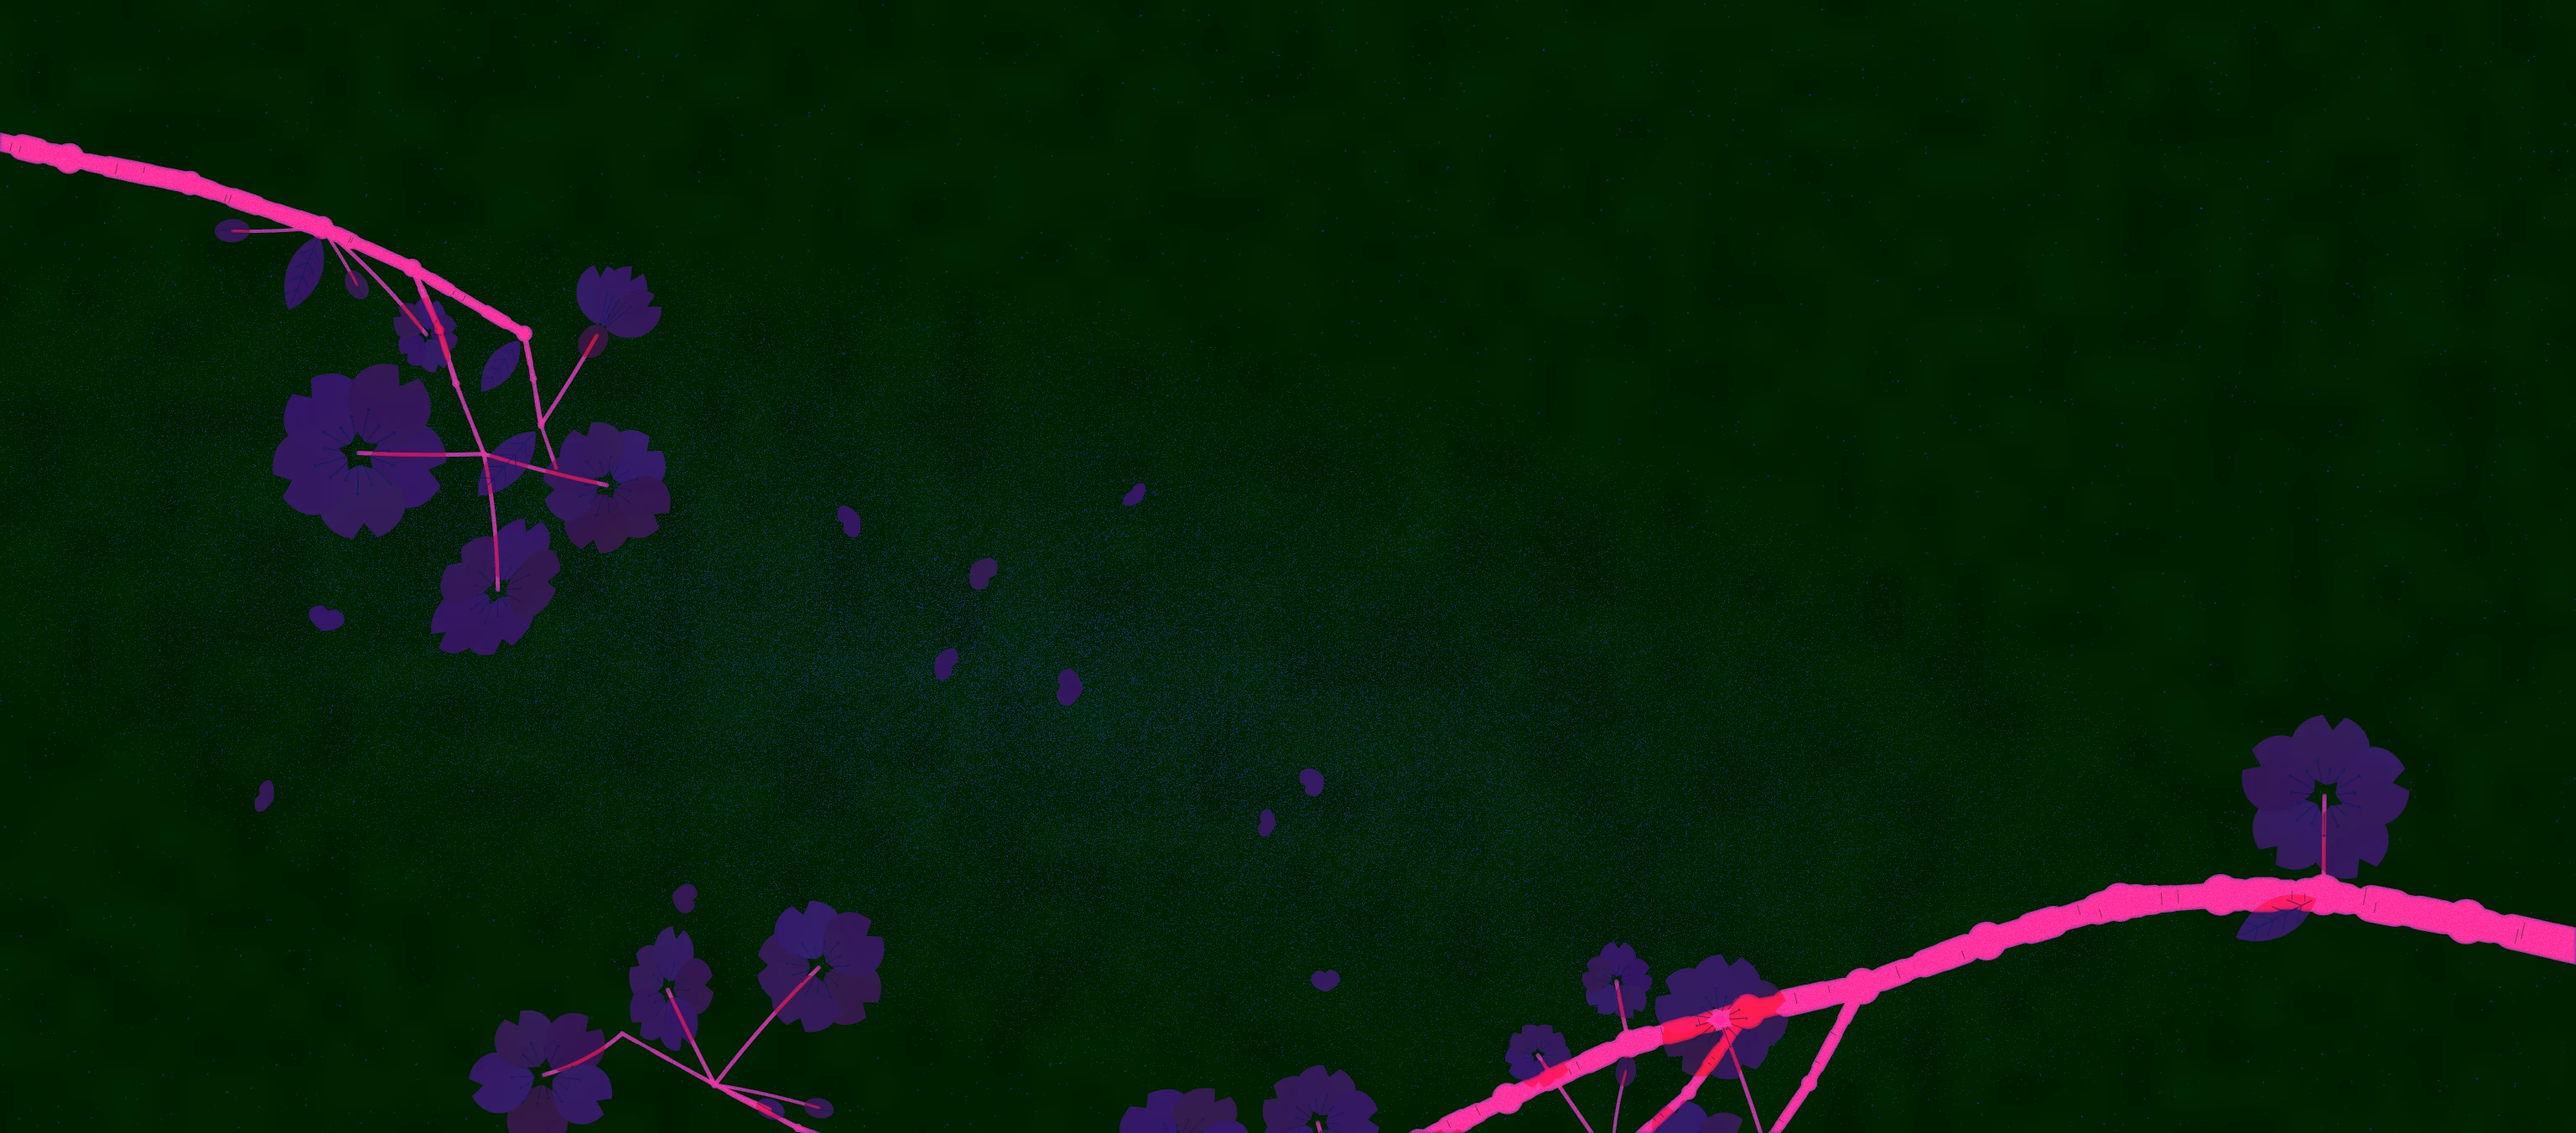
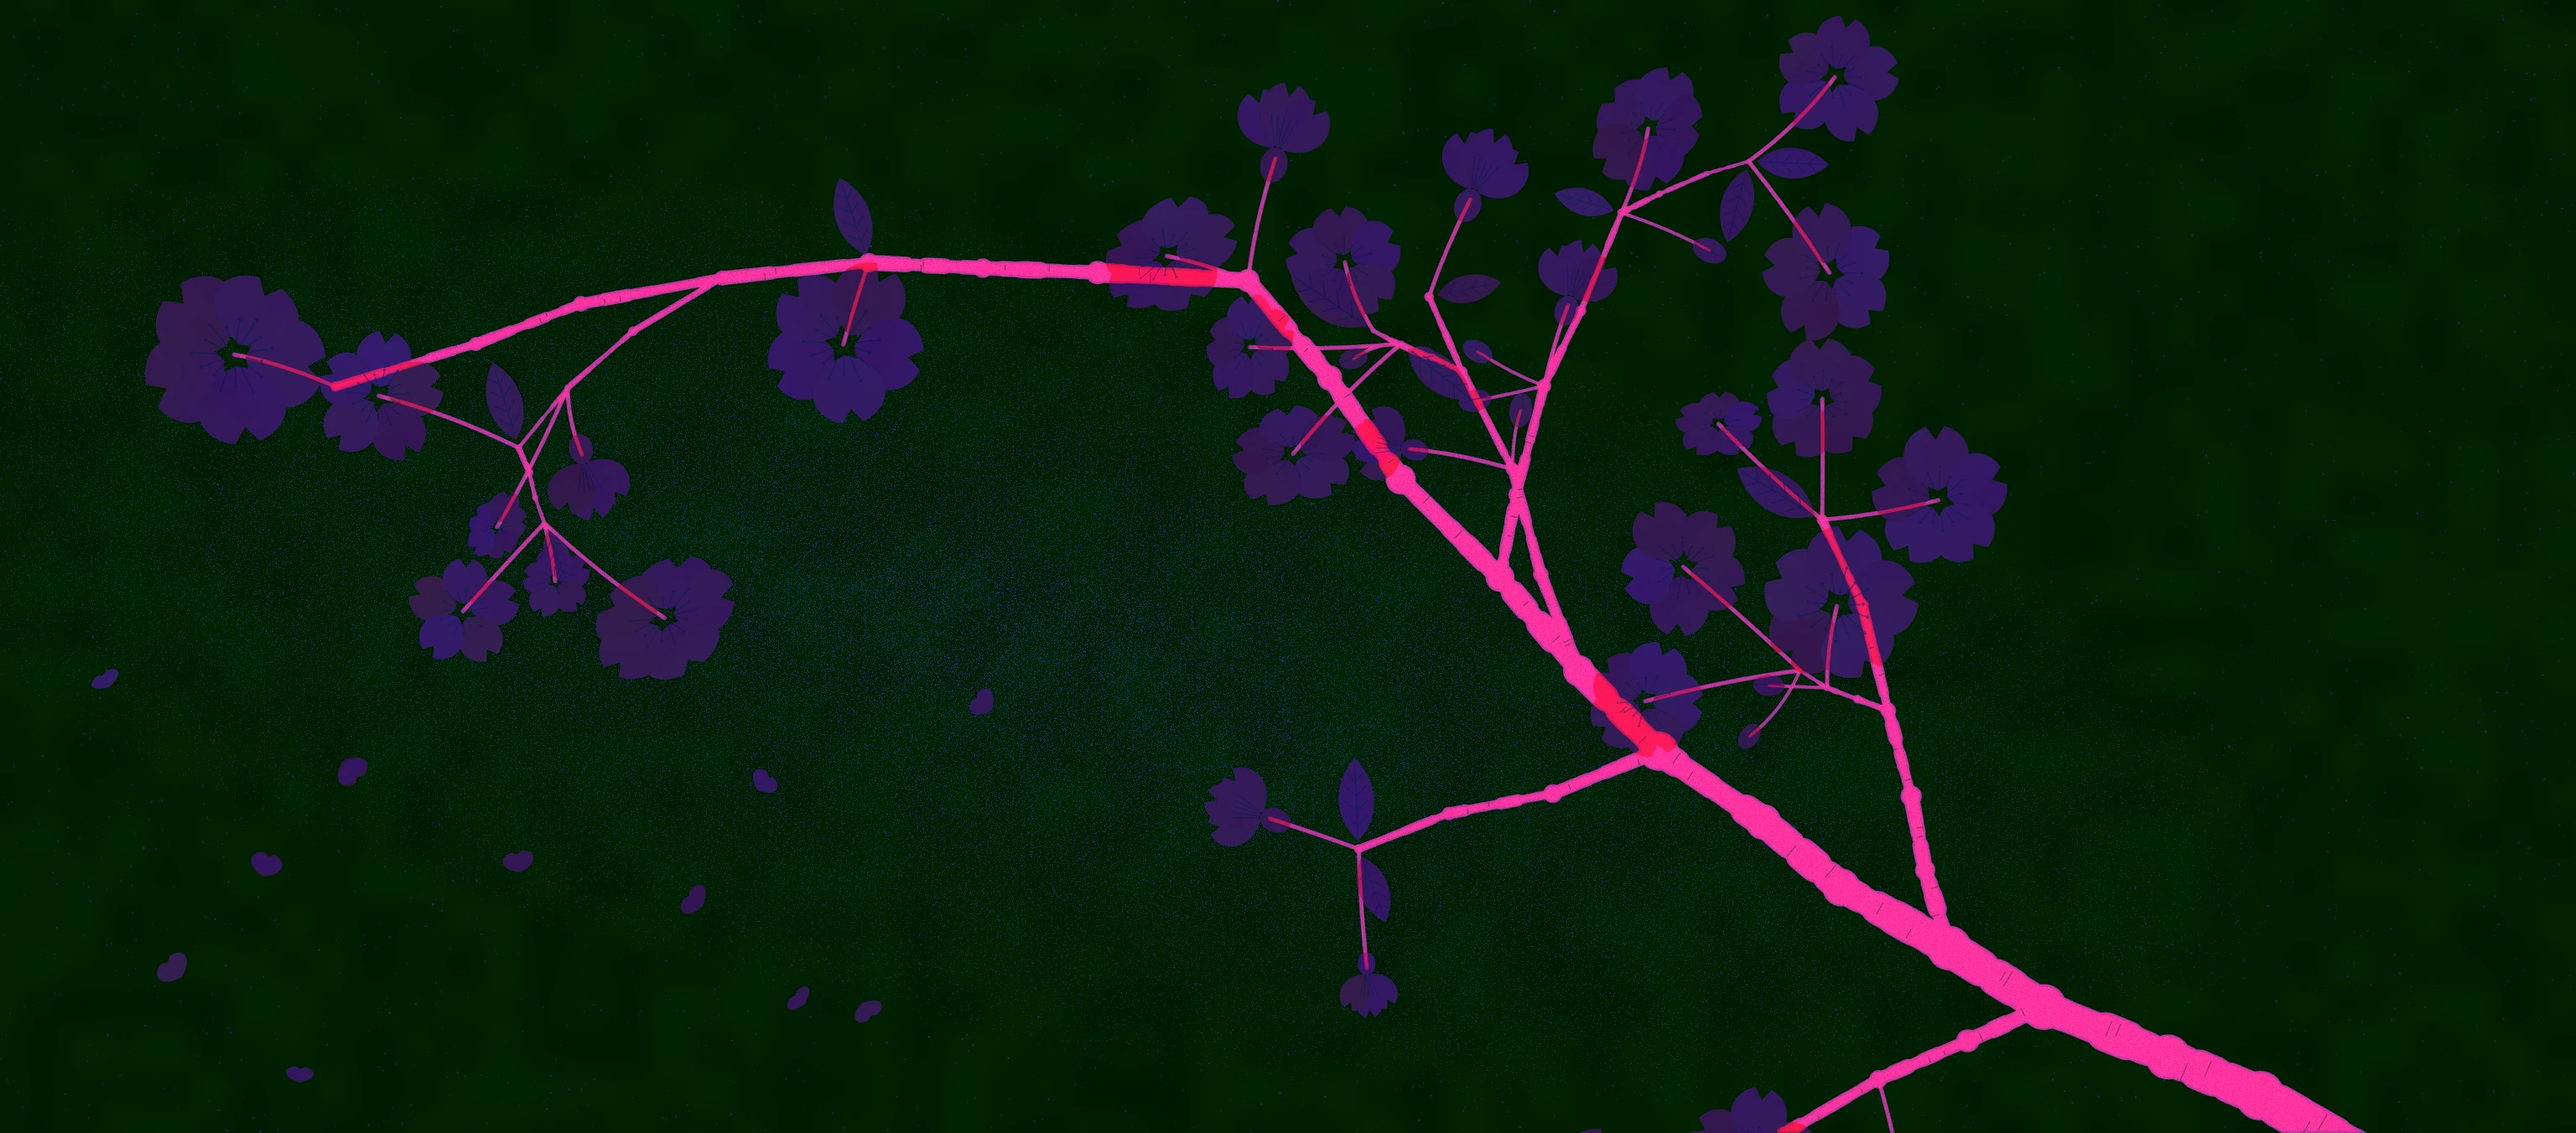
将棋 山桜盤：短い面も同じ構図（左右反転）に
Claude-Session: https://claude.ai/code/session_01EiWRAXZcgDnoypvsbtaRDZ

diff --git a/atlas/tools/shogi-tex.html b/atlas/tools/shogi-tex.html
@@ -791,10 +791,15 @@
         for (let k = 0; k < 12; k++) rFall(m, R(W * .55, W * .97), R(H * .5, H * .95), R(26, 38) * sc, R(0, 6.3));
         nashiji(mk, W, H, 5000);
       } else {
-        dust(W * .4, H * .6, W * .5, H * .34, .2, .2);
-        const P = []; sakuraBough(mk, m, W, W + 30, H * .84, Math.PI + .45, 1900, 42, -.03, P);
-        sakuraBough(mk, m, W, -30, H * .12, .22, 700, 28, -.012, P);
-        for (let k = 0; k < 11; k++) rFall(m, R(W * .04, W * .55), R(H * .35, H * .94), R(26, 38) * sc, R(0, 6.3));
+        // (2026-11-13) the long face's composition mirrored: the bough climbs from the lower right corner, its branch reaches left and droops
+        let P, J; const clr = o => Object.values(o).forEach(cn => ctx(cn).clearRect(0, 0, W, H));
+        const tryIt = sd => { seed = sd; clr(m); clr(mk); dust(W * .4, H * .56, W * .5, H * .36, .2, .2);
+          P = [[W * .9, H * .86, H * .36, 1]]; J = sakuraBough(mk, m, W, W * .92, H + 30, -Math.PI + .72, 1750, 48, -.004, P);
+          const e = J[J.length - 1], n0 = P.length; sakuraBough(mk, m, W, e[0], e[1], Math.PI + .12, 1050, 22, -.075, P);
+          const Q = P.filter(q => !q[3]), top = Math.min(...Q.map(q => q[1] - q[2])), right = Math.max(...Q.map(q => q[0] + q[2])), left = Math.min(...Q.map(q => q[0] - q[2])), bot = Math.max(...P.slice(n0).map(q => q[1] + q[2]));
+          return Math.max(0, H * .04 - top) * 3 + Math.max(0, W * .05 - left) + Math.max(0, left - W * .2) + Math.max(0, right - W) + Math.max(0, bot - H * .6) + Math.max(0, H * .3 - bot) + Math.abs(e[0] - W * .44) * .3 + Math.max(0, e[1] - H * .2) + Math.max(0, 22 - P.length) * 40; };
+        { let best = 0, bs = 1e9; for (let t = 0; t < 160; t++) { const v = tryIt(67 + t * 7); if (v < bs) { bs = v; best = 67 + t * 7; } if (v < 12) break; } tryIt(best); }
+        for (let k = 0; k < 11; k++) rFall(m, R(W * .04, W * .45), R(H * .5, H * .95), R(26, 38) * sc, R(0, 6.3));
         nashiji(mk, W, H, 5000);
       }
       return (RD[kind] = composeRaden(m, W, H, seed, 'red', composeMakie(mk, W, H, seed, red)));
